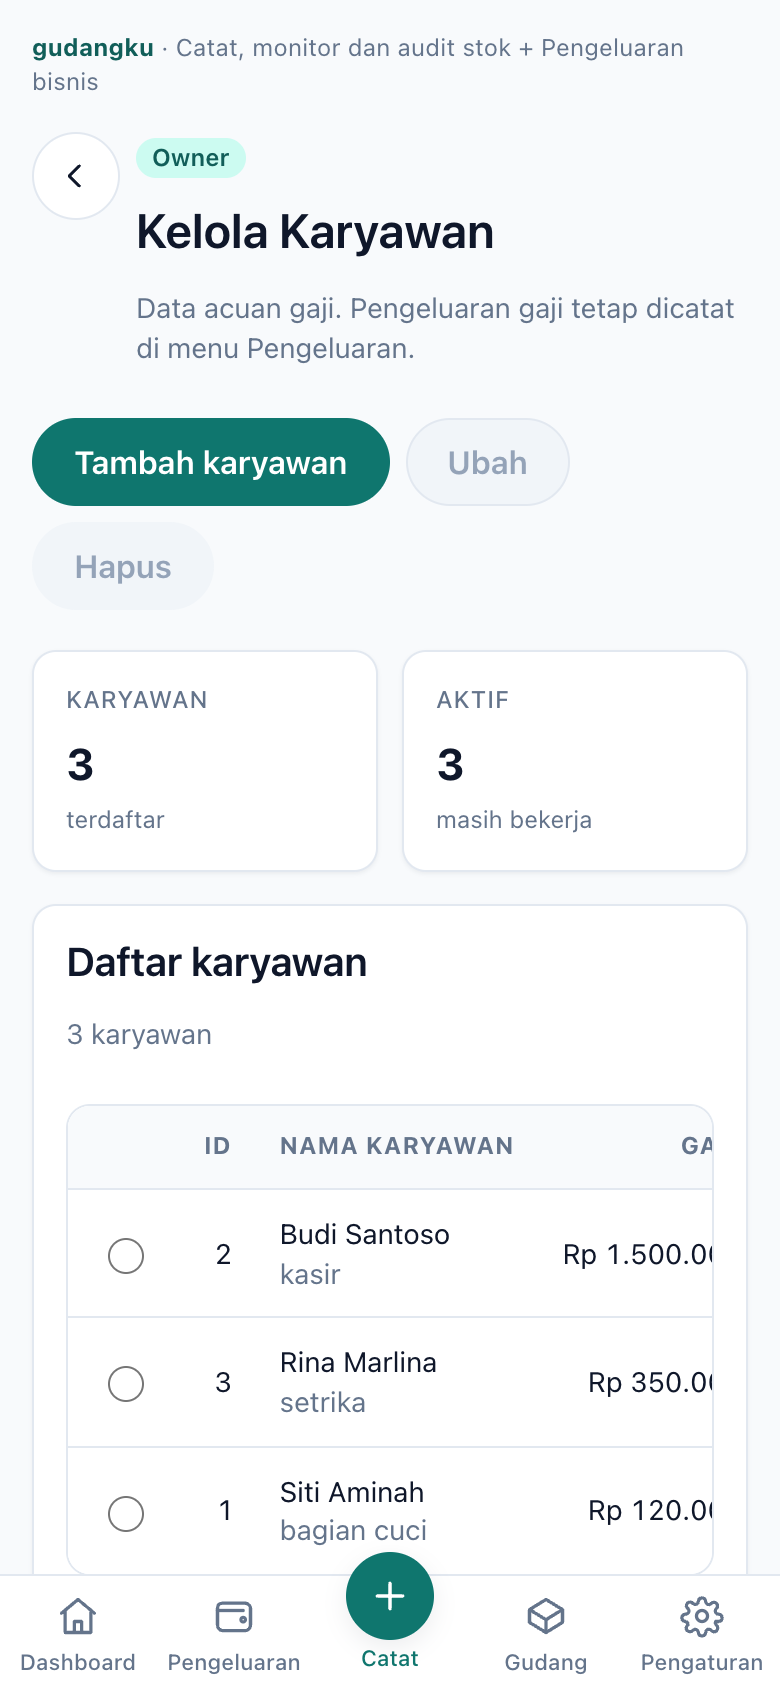
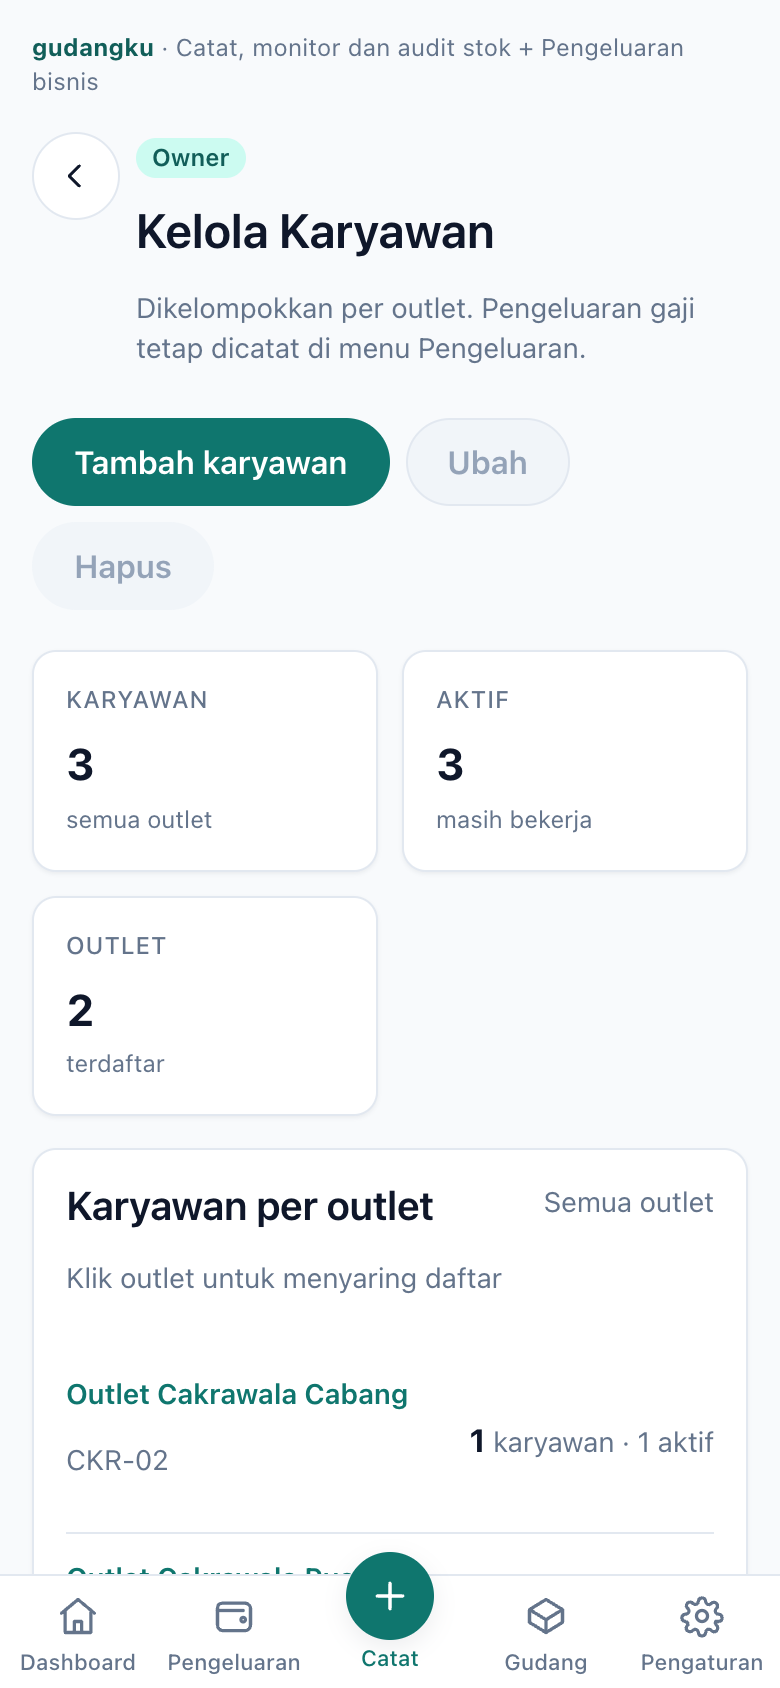
docs: employees per outlet

diff --git a/docs/UJI.md b/docs/UJI.md
@@ -4,7 +4,7 @@ Merujuk `PRD_gudangku.md` bagian 16. Setiap butir punya bukti: nama test otomati
 
 - Tanggal uji: 28 Oktober 2026
 - Lingkungan live: https://43.173.41.195.sslip.io (PHP 8.5.12, MySQL 8.0.46, nginx 1.24.0)
-- Test otomatis: `php artisan test` → **176 passed, 754 assertions**
+- Test otomatis: `php artisan test` → **180 passed, 768 assertions**
 - Audit: `composer audit` bersih, `npm audit` 0 vulnerability
 
 | No | Butir | Status | Bukti |
@@ -47,7 +47,7 @@ Merujuk `PRD_gudangku.md` bagian 16. Setiap butir punya bukti: nama test otomati
 | 36 | Menu Gudang tersedia untuk owner (bottom navigation) dan memuat aksi tambah outlet serta tambah kategori barang | Lulus | `WarehouseTest` (5 test): owner `/warehouse` 200, manajer 403, tamu 302, `/master-data?new=1` menghasilkan `openCreate=true`, `/outlets?new=1` menghasilkan `openCreate=true` |
 | 37 | Database Supplier menyimpan informasi lengkap pemasok: kontak, alamat, lead time, dan term of payment dalam hari | Lulus | `SupplierTest` (9 test): halaman memuat field lengkap, simpan/ubah lead time + TOP angka hari, TOP berupa teks (`NET 30`) ditolak dengan pesan "Term of payment harus berupa angka hari", lead time di luar 0–365 ditolak, supplier yang dipakai pembelian tidak bisa dihapus, manajer 403. Bukti live: kolom TOP menampilkan `30 hari` dan `14 hari`; `input[type=number]` menolak teks di sisi klien dan server tetap menolak walau dikirim manual |
 | 38 | Harga Barang memuat kode, nama, satuan (pcs/dus/kg), ID supplier, harga satuan, dan tanggal update harga | Lulus | `ProductTest` + `ProductController`: satuan dibatasi `pcs/dus/kg`, `price_updated_at` diisi server saat barang dibuat dan diperbarui hanya kalau harga berubah |
-| 39 | Kelola Karyawan menyimpan nama, gaji, dan satuan gaji (harian/mingguan/bulanan) | Lulus | `EmployeeTest` (8 test): halaman + 3 pilihan satuan gaji, simpan/ubah, satuan gaji tidak dikenal ditolak, gaji negatif ditolak, toggle status, hapus, manajer 403 |
+| 39 | Kelola Karyawan menyimpan nama, gaji, dan satuan gaji (harian/mingguan/bulanan), dikelompokkan per outlet | Lulus | `EmployeeTest` (12 test): outlet wajib dipilih, filter `?outlet=` hanya menampilkan karyawan outlet tersebut, karyawan bisa dipindah antar outlet, outlet yang masih punya karyawan tidak bisa dihapus, 3 pilihan satuan gaji, gaji negatif dan satuan gaji tidak dikenal ditolak, toggle status, hapus, manajer 403. Bukti live: ringkasan "Karyawan per outlet" menampilkan CKR-01 = 2 karyawan, CKR-02 = 1 karyawan; filter outlet menandai baris aktif; form kosong menghasilkan pesan "Pilih outlet untuk karyawan ini." |
 
 ## Uji manual tambahan di live
 

diff --git a/docs/PRESENTASI.md b/docs/PRESENTASI.md
@@ -179,7 +179,7 @@ Grup route: `/*` publik (login/register), `auth` (dashboard, produk, penerimaan,
 11. CRUD produk, kategori, supplier, outlet, user.
 12. Laporan owner per periode dan outlet.
 13. Ekspor Excel pengeluaran per outlet per bulan, empat sheet: Ringkasan (outlet × bulan), Per Kategori (per bulan per kategori + subtotal), Pembelian Produk (per bulan per kategori produk, mis. Gas LPG), dan Rincian.
-14. Menu Gudang dengan empat kartu yang seluruhnya bisa diklik: Kelola Outlet, Database Supplier (lead time hari + term of payment dalam hari, contoh 7/14/30), Harga Barang (satuan pcs/dus/kg, harga satuan, tanggal update harga), dan Kelola Karyawan (gaji + satuan gaji).
+14. Menu Gudang dengan empat kartu yang seluruhnya bisa diklik: Kelola Outlet, Database Supplier (lead time hari + term of payment dalam hari, contoh 7/14/30), Harga Barang (satuan pcs/dus/kg, harga satuan, tanggal update harga), dan Kelola Karyawan (dikelompokkan per outlet; gaji + satuan gaji).
 
 ## 10. Screenshot (mobile 390px)
 
@@ -193,7 +193,7 @@ Semua file di `docs/screenshots/`, diambil pada viewport 390×844 (2× DPR) mema
 | `20-barang.png` | Harga Barang: Kode Barang, Nama Barang, Satuan, ID Supplier, Harga Satuan, Tanggal Update Harga |
 | `21-outlet.png` | Kelola Outlet: kolom ID dan Nama Outlet, tanpa kolom transaksi |
 | `22-supplier.png` | Database Supplier: kontak, alamat, lead time (hari), dan term of payment (TOP) dalam hari |
-| `23-karyawan.png` | Kelola Karyawan: nama, gaji, dan satuan gaji (harian/mingguan/bulanan) |
+| `23-karyawan.png` | Kelola Karyawan dikelompokkan per outlet: ringkasan per outlet, kolom outlet, gaji, dan satuan gaji |
 | `18-tambah-kategori.png` | Form tambah kategori terbuka langsung dari menu Gudang |
 | `19-tambah-outlet.png` | Form tambah outlet terbuka langsung dari menu Gudang |
 | `16-dashboard-tagline.png` | Tagline di header aplikasi (dashboard owner) |

diff --git a/README.md b/README.md
@@ -38,7 +38,7 @@ Register publik hanya membuat akun **manajer nonaktif**. Akun tersebut tidak bis
     - **Kelola Outlet** — tambah, ubah, dan hapus outlet (kolom ID dan Nama Outlet).
     - **Database Supplier** — informasi lengkap pemasok: ID, nama, kontak/telepon, alamat, **lead time (hari pengiriman)**, dan **term of payment (TOP) dalam hari** (contoh: 7, 14, atau 30 hari).
     - **Harga Barang** — kode barang, nama barang, **satuan (pcs/dus/kg, bawaan pcs)**, ID supplier, **harga satuan dalam Rupiah**, dan **tanggal update harga** (diisi otomatis oleh server).
-    - **Kelola Karyawan** — nama karyawan, gaji, dan satuan gaji (harian, mingguan, bulanan).
+    - **Kelola Karyawan** — daftar karyawan **dikelompokkan per outlet**, berisi nama karyawan, gaji, dan satuan gaji (harian, mingguan, bulanan). Outlet wajib dipilih dan daftar bisa disaring per outlet.
 
 ## Stack
 
@@ -111,7 +111,7 @@ php artisan config:cache && php artisan route:cache && php artisan view:cache
 ## Pengujian
 
 ```bash
-php artisan test        # 176 test, 754 assertion
+php artisan test        # 180 test, 768 assertion
 composer audit          # tanpa advisory
 npm audit               # 0 vulnerability
 ```
